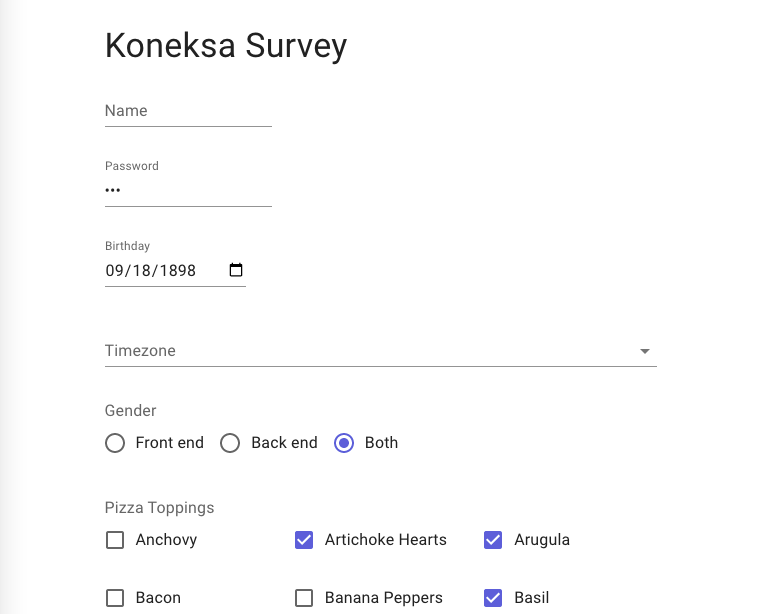
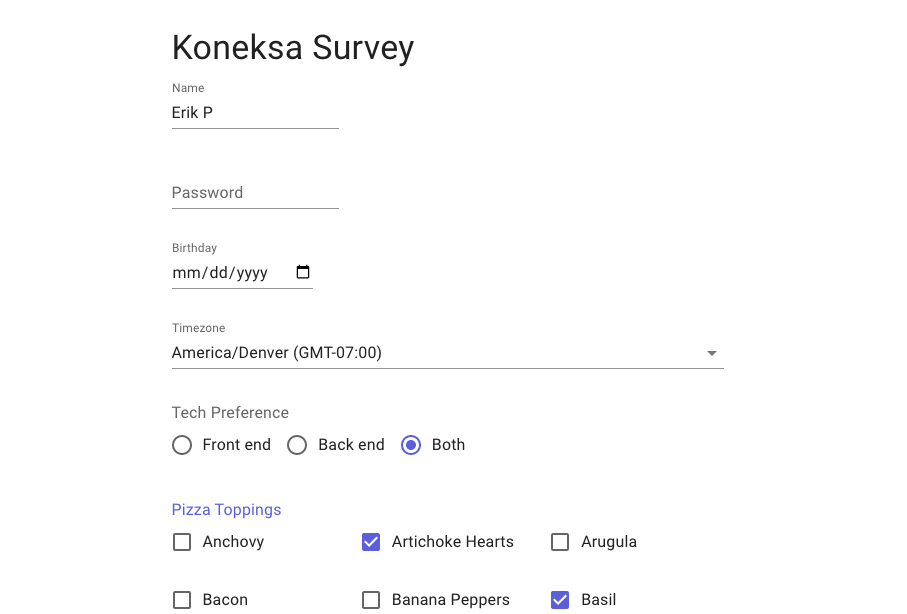
Forgot a bit of boilerplate

diff --git a/src/TechPreferenceField.tsx b/src/TechPreferenceField.tsx
@@ -17,7 +17,7 @@ const TechPreferenceField = ({ value, onChange }: TechPreferenceFieldProps) => {
 
   return (
     <FormControl>
-      <FormLabel htmlFor="tech-preference">Gender</FormLabel>
+      <FormLabel htmlFor="tech-preference">Tech Preference</FormLabel>
       <RadioGroup
         id="tech-preference"
         value={value || null}
